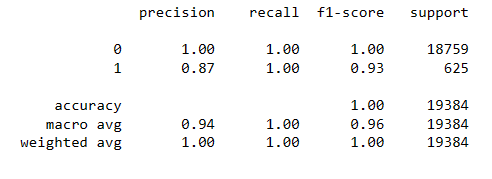
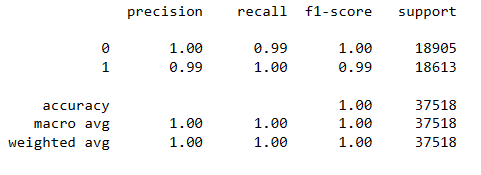
correcting coding error that produced inaccurate predictions.

diff --git a/README.md b/README.md
@@ -1,13 +1,11 @@
-# credit-risk-classification
- Supervised Maching Learning Challenge
-  In this challenge, I employed the Machine Learning methods learned to analyze a dataset of a peer-to-peer lending service company and build models that can determine the creditworthiness of borrowers.  
+# Credit-Risk-Classification Report
 
-## Overview of the Analysis  
-  Made up of 77,536 data points, the dataset was split into a training set and a test set. The training set was used to create an initial logistic regression model using the <a href=https://scikit-learn.org/stable/index.html>scikit-learn</a> LogisticRegression module. The logistic regression model 1 was then applied to the test dataset. The purpose of the model was to determine whether loans to borrowers in the test set were low-risk or high-risk. 
+## Overview of the Analysis
+  The purpose of the analysis is to determine whether the supervised learning model can accurately predict the creditworthiness (risk level) of borrowers of individual loans. 
 
-  This original model was based on a dataset containing 75,036 data points for low-risk loans and 2,500 data points for high-risk loans. To resample the training data and ensure that the logistic regression model extracted the same number of data points, the training set data was resampled using the RandomOverSampler module. Based on the original dataset, 56,277 data points were generated for both low-risk (0) and high-risk (1) loans.
+  Made up of 77,536 data points, of which 75,036 were healthy loans and 2,500 were high-risk loans.  The dataset was split into a training set and a test set. The training set was used to create an initial logistic regression model using the <a href=https://scikit-learn.org/stable/index.html>scikit-learn</a> LogisticRegression model. The logistic regression model 1 was then applied to the test dataset. The purpose of the model was to determine whether loans to borrowers in the test set were low-risk or high-risk. 
 
-  Using the resampled data to buildf a new logistic regression model (logistic regression 2). The purpose of this logistic regression model was to determine whether loans in the test set fell into the low-risk or high-risk classification.
+  The data was then resampled using RandomOverSampler model and reprocessed through the LogisticRegression model. Based on the original dataset, 75,036 data points were generated for both low-risk (0) and high-risk (1) loans.
 
 Factors considered in the analysis included the following data for all borrowers:
 * Size of the loan
@@ -22,7 +20,7 @@ Factors considered in the analysis included the following data for all borrowers
 
 <strong>Logistic Regression Model 1:</strong>
 
-* Balanced accuracy score:  94.4%
+* Balanced accuracy score:  95.2%
 * Precision: 100% for healthy-loans and 87% for high-risk loans.  
 * Recall: 94% (an average) The model had 100% recall in predicting low-risk loans and 89% recall in predicting high-risk loans.
 
@@ -31,19 +29,21 @@ Factors considered in the analysis included the following data for all borrowers
 
 <strong>Logistic Regression Model 2:</strong>
 
-* Balanced accuracy score:  99.5%
-* Precision: 100% for healthy-loans and 87% for high-risk loans.  
-* Recall: 94% (an average) The model had 100% recall in predicting low-risk loans and 100% recall in predicting high-risk loans.
+* Balanced accuracy score: 99.5%
+* Precision: 100% for healthy-loans and 99% for high-risk loans.  
+* Recall: 99% for the healthy-loans category and 100% for high-risk loans.
 
 ![Accuracy_score_resample](./Images/Accuracy_score_resample.png)
 ![classrpt_score_resample](./Images/classrpt_score_resample.png)
 
 ## Summary
 
-Overall, the machine learning model predicted credit risk fairly accurately. If our goal is only to predict healthy loans, the first model will suffice, as it is nearly perfect in this domain. However, the model predicts high-risk loans correctly 87% of the time, with a balanced accuracy score of 94.4%,    
+Overall, the machine learning model predicted credit risk with a high degree of accuracy. If our goal is only to predict healthy loans, the first model will suffice, as it is nearly perfect in this domain. However, the model predicts high-risk loans correctly 85% of the time, and it is inaccurate 15% of the time.  Making this a risky model to use.     
 
-Comparatively, the second model had no improved accuracy performance for high-risk loans, again, 87% of the model's high-risk predictions were accurate. However, the balanced accuracy for the second model improved to 99.5%, as opposed to 94.4% for the first model.
+Comparatively, the second model performed better in all aspects. 99% of the second model's high-risk predictions were actually high-risk, and the model predicted 100% of all actual high-risk loans. The accuracy value for the second model is also 99.5%, as opposed to 95.2% for the first model.
 
 The first model may be good enough for an overall sound credit prediction, but the second model is better in all respects. I would recommend using the second model to assess risk levels of new loans.
+
+
 
 ** Used stackoverflow to resolve module not found error for imblearn module: 'https://stackoverflow.com/questions/50376990/modulenotfounderror-no-module-named-imblearn'
